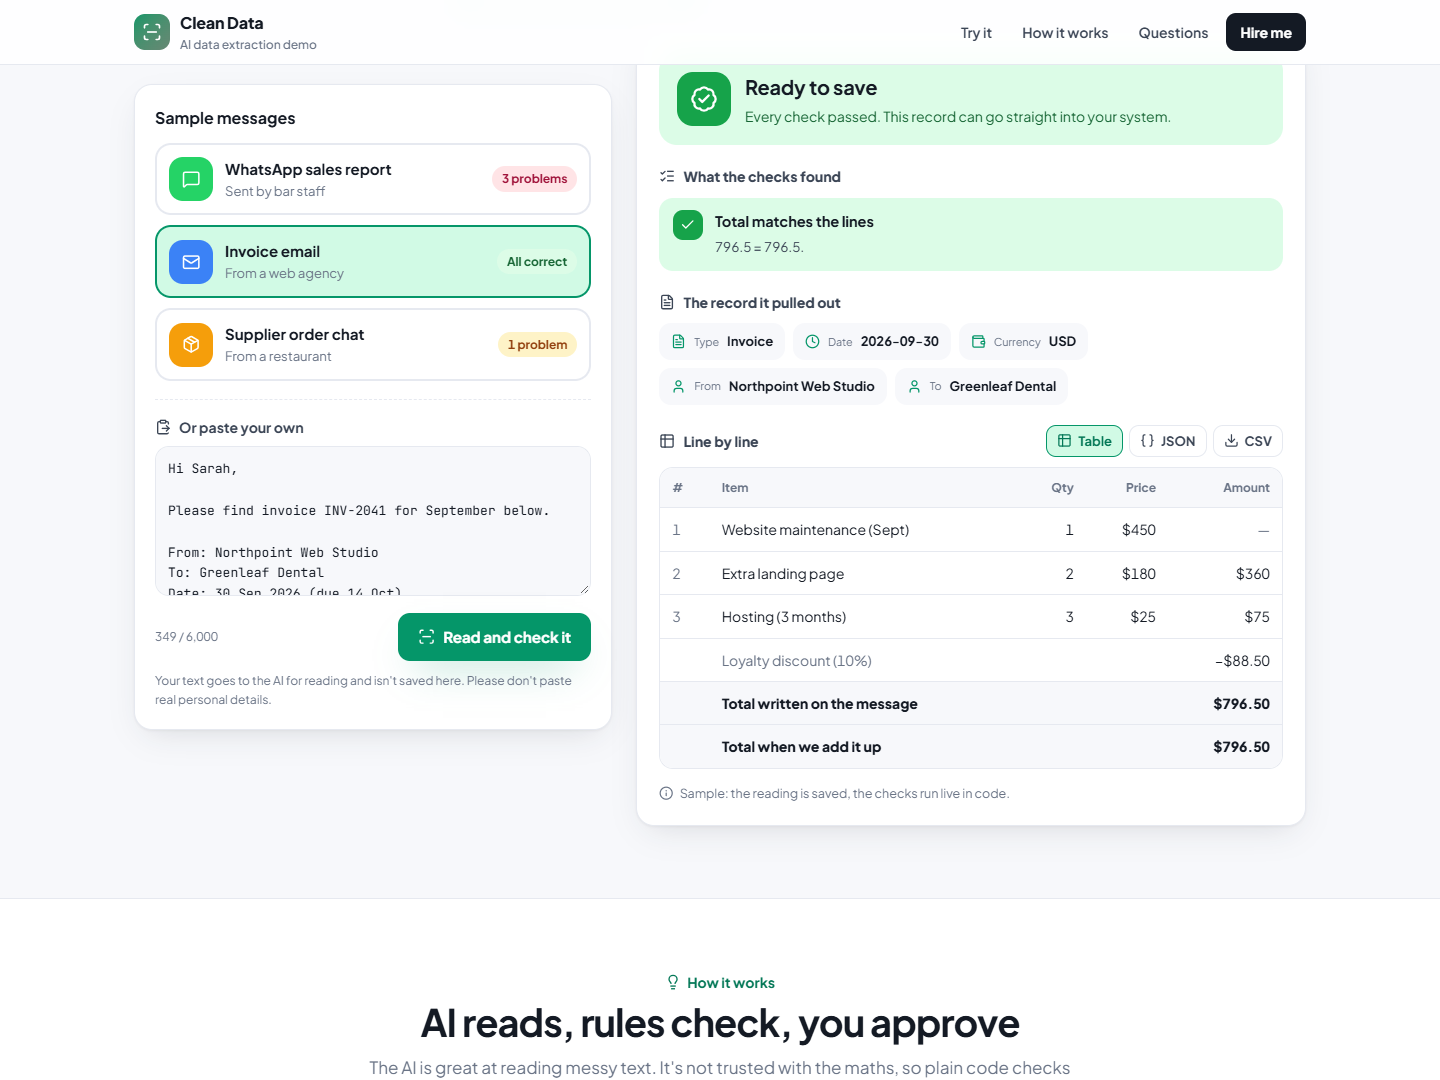
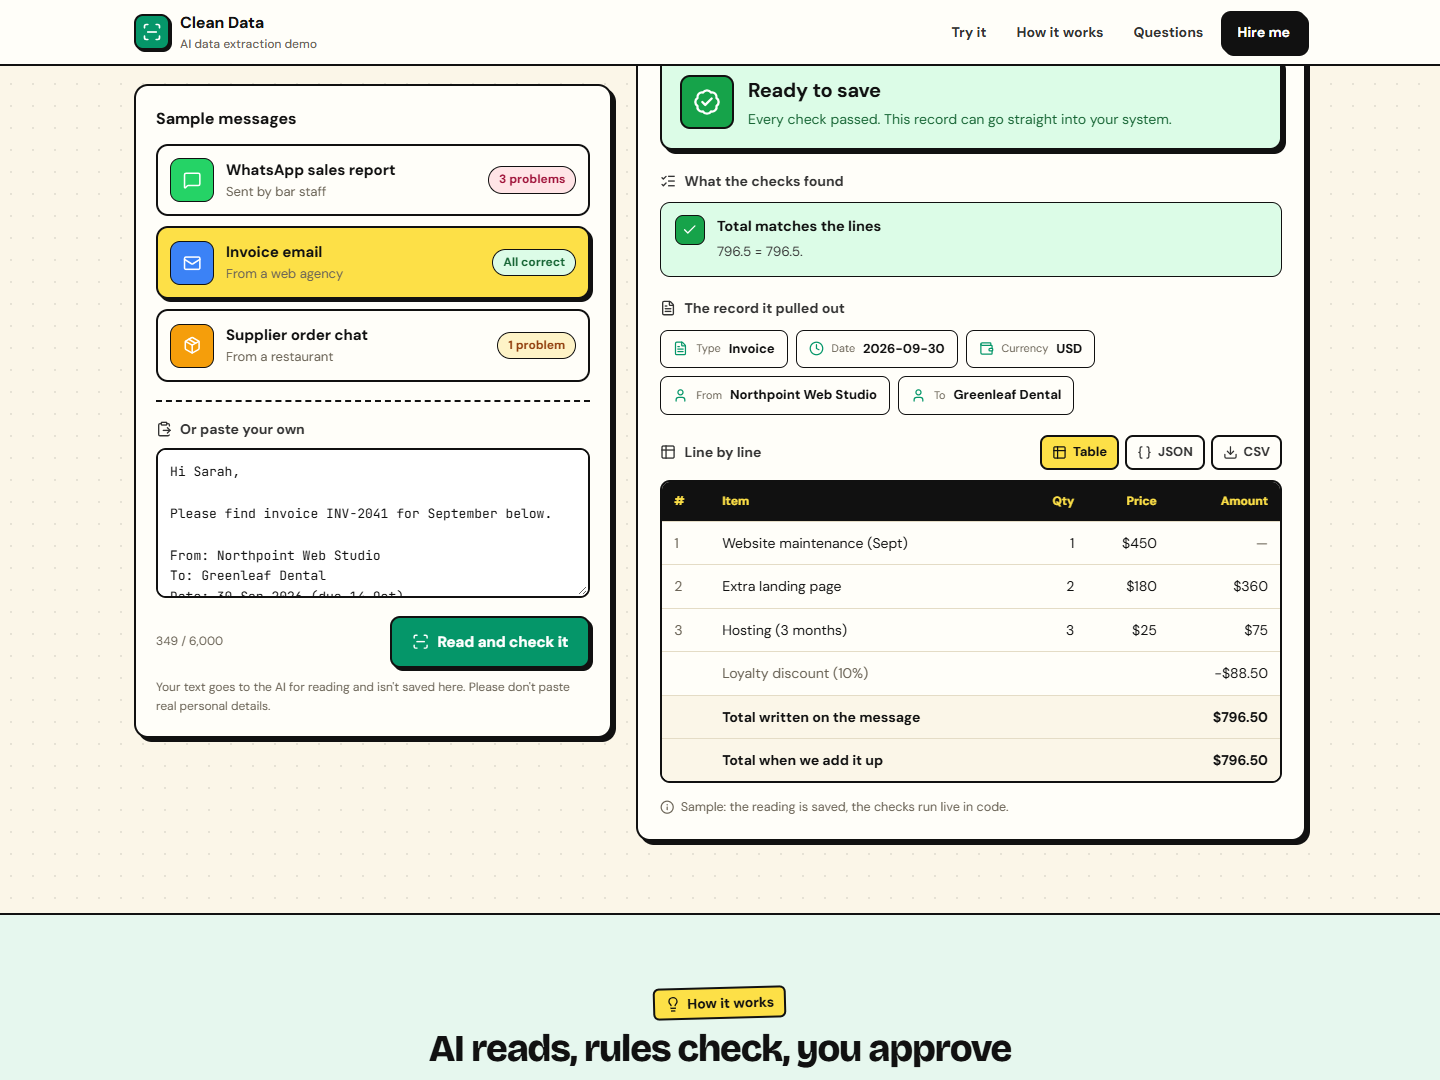
Docs: provider-neutral setup (OpenAI default), refreshed screenshots

Changed region(s): [[0.0938, 0.0, 0.9375, 0.7944], [0.0, 0.825, 1.0, 1.0], [0.0938, 0.0, 0.2188, 0.0611]]

diff --git a/README.md b/README.md
@@ -2,7 +2,7 @@
 
 **Live demo:** https://extract.frankonline.cloud
 
-Paste a messy WhatsApp sales report, invoice email or supplier order chat. Claude extracts a structured record **exactly as written**, then plain code checks every number. Anything doubtful is flagged for a person instead of slipping into your books.
+Paste a messy WhatsApp sales report, invoice email or supplier order chat. An LLM extracts a structured record **exactly as written**, then plain code checks every number. Anything doubtful is flagged for a person instead of slipping into your books.
 
 ![Demo](docs/screenshot.png)
 
@@ -22,7 +22,7 @@ Each record comes out as **ready**, **needs review** or **blocked**.
 
 ## Stack
 
-Node 22, Express 5, Anthropic SDK structured outputs (`messages.parse` + a Zod schema), plain HTML/CSS/JS, Docker + Caddy.
+Node 22, Express 5, structured outputs from OpenAI (strict JSON schema) or Anthropic (`messages.parse`), both from one Zod schema. The model runs through `llm.mjs`, a small adapter that speaks OpenAI or Anthropic (`PROVIDER`); the live demo uses OpenAI `gpt-4.1-mini`., plain HTML/CSS/JS, Docker + Caddy.
 
 The three samples use saved extractions, so they cost nothing; the checks still run live on them. Custom text calls the API behind a proof-of-work check, a per-IP rate limit, a daily call and dollar cap, and an `AI_ENABLED` kill switch.
 
@@ -30,7 +30,7 @@ The three samples use saved extractions, so they cost nothing; the checks still 
 
 ```bash
 npm install
-cp .env.example .env   # add ANTHROPIC_API_KEY
+cp .env.example .env   # add OPENAI_API_KEY (or ANTHROPIC_API_KEY with PROVIDER=anthropic)
 node --env-file=.env server.mjs   # http://localhost:5180
 node --test
 ```
